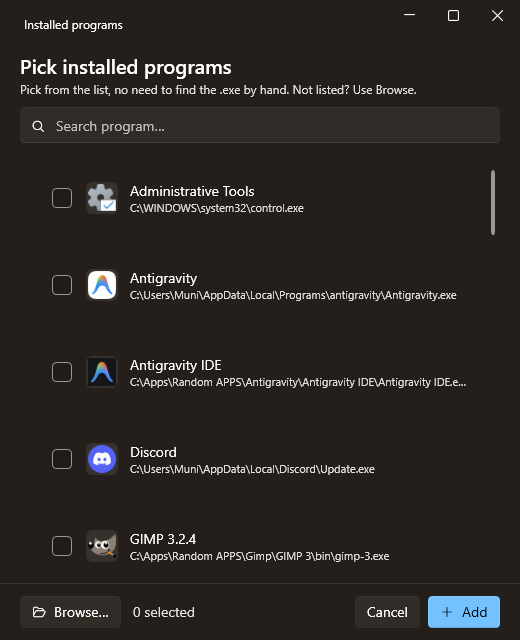
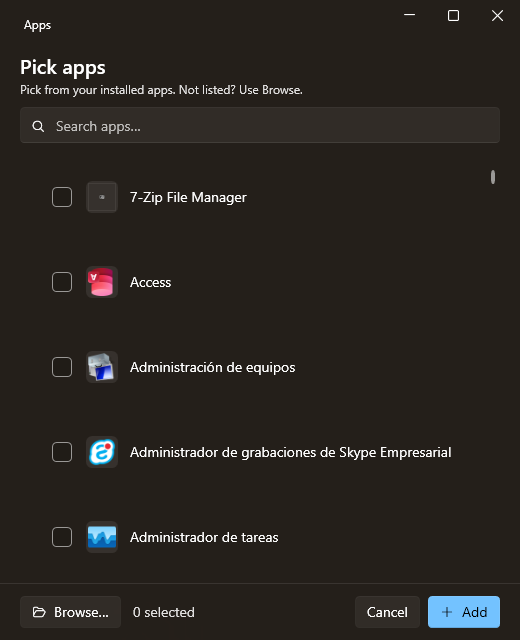
Docs: update README and screenshots for the unified app catalog
Rewrite the feature/usage/architecture copy around the shell AppsFolder catalog
(one searchable app list, correct shell icons), replace the program-picker
screenshot with the unified picker, and drop the now-removed Store-picker shot.

diff --git a/README.md b/README.md
@@ -25,14 +25,13 @@
 ## ✨ Features
 
 - **Fluent design** — Mica backdrop, rounded corners, and a light/dark theme **and accent colour that follow Windows automatically**.
-- **Pick from installed programs** — choose desktop apps from a searchable list (built from your Start Menu) instead of hunting for the right `.exe`. A *Browse…* button still covers anything not listed.
-- **Microsoft Store apps** — add UWP/MSIX apps with no `.exe` (WhatsApp, Instagram, TikTok…) from a built-in picker. These are the apps the classic file dialog can't reach.
+- **Add any installed app** — one searchable list of everything installed (desktop **and** Microsoft Store apps), read straight from the Windows shell app catalog (`AppsFolder`). No hunting for the right `.exe`; a *Browse…* button covers anything unlisted.
+- **Correct icons for every app** — icons come from the Windows shell image pipeline (the same ones the Start Menu shows), high-res and transparent, for UWP and desktop apps alike — including apps launched through a stub (e.g. Discord).
 - **Crop & zoom icons** — a built-in editor to position and crop any image before applying it as the group icon.
-- **Crisp 256px icons** — extracted from the Windows jumbo image list, with no shortcut-arrow overlay. Apps launched through a shortcut stub (e.g. Discord) keep their real logo.
-- **Live taskbar updates** — changing a pinned group's icon refreshes the taskbar button.
+- **Live taskbar updates** — changing a pinned group's icon refreshes the taskbar button (with a clean shell restart that won't disturb your other icons).
 - **English & Spanish** — the UI follows your Windows display language (override with the `TBG_LANG` env var).
 - **One-click pinning helper** — opens the shortcut folder ready to pin (Windows 11 blocks fully automatic taskbar pinning).
-- **Programs, folders and Store apps** in the same group.
+- **Apps and folders** in the same group.
 - **.NET 8** — the whole shell/UWP/icon interop ported off .NET Framework 4.7.2.
 
 ## ⬇️ Download & install
@@ -46,7 +45,7 @@
 ## 🚀 Usage
 
 1. Click **Add group** and give the group a name and icon (crop/zoom it in the built-in editor).
-2. Add shortcuts with **Program** (pick from your installed programs, or browse), **Folder**, or **Store app**.
+2. Add shortcuts with **App** (pick any installed app — desktop or Store — from the searchable list, or *Browse…*) or **Folder**.
 3. Click **Save group**.
 4. On the group's card, click **Pin to taskbar** and follow the 3 steps (right-click the highlighted shortcut → *Show more options* → *Pin to taskbar*).
 5. Click the pinned icon to open the flyout with your apps.
@@ -55,13 +54,13 @@
 
 ## 📸 Screenshots
 
-| Group editor | Installed-programs picker |
+| Group editor | App picker (desktop + Store) |
 | --- | --- |
 | <img src="docs/screenshots/group-editor.png" width="380" /> | <img src="docs/screenshots/program-picker.png" width="380" /> |
 
-| Store app picker | Taskbar flyout |
+| Taskbar flyout | |
 | --- | --- |
-| <img src="docs/screenshots/store-picker.png" width="380" /> | <img src="docs/screenshots/flyout.png" width="380" /> |
+| <img src="docs/screenshots/flyout.png" width="380" /> | |
 
 ## 🛠️ Building from source
 
@@ -84,8 +83,8 @@ dotnet publish src/TaskbarGroups.Background -c Release -r win-x64 --self-contain
 
 | Project | Role |
 | --- | --- |
-| `TaskbarGroups.Core` | UI-agnostic logic: data model, shell/UWP/icon interop, installed-app discovery, paths |
-| `TaskbarGroups.App` | Fluent editor — main window, group editor, program & Store pickers, icon crop editor, localization |
+| `TaskbarGroups.Core` | UI-agnostic logic: data model, shell AppsFolder catalog + icon pipeline, shell interop, paths |
+| `TaskbarGroups.App` | Fluent editor — main window, group editor, app picker, icon crop editor, localization |
 | `TaskbarGroups.Background` | Borderless flyout shown above the taskbar |
 
 The app deploys the background flyout next to itself; a pinned shortcut launches it with the group name as its argument.